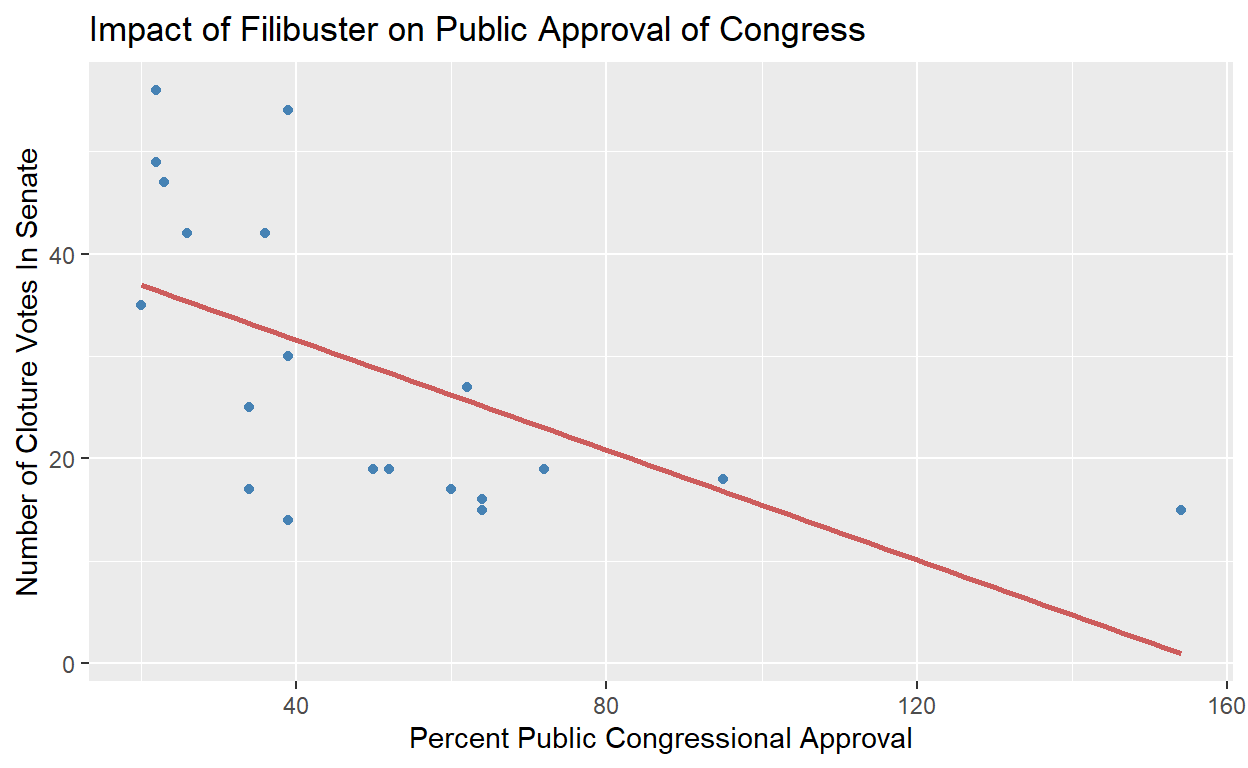
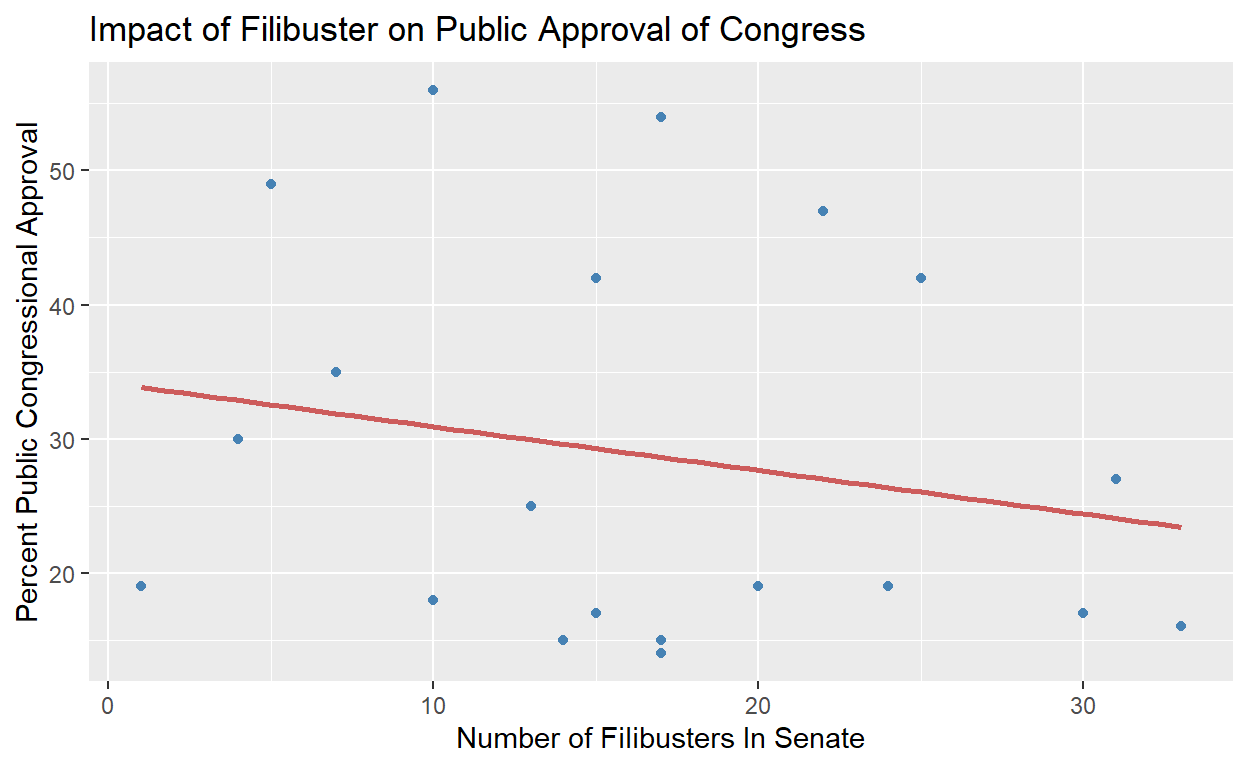
m4

diff --git a/index.html b/index.html
@@ -1577,19 +1577,56 @@ code span.wa { color: #5e5e5e; font-style: italic; } /* Warning */
 </div>
 <div class="layout-chunk" data-layout="l-body">
 <div class="sourceCode">
-<pre class="sourceCode r"><code class="sourceCode r"><span><span class='va'>correlation_plot</span> <span class='op'>&lt;-</span> <span class='fu'><a href='https://ggplot2.tidyverse.org/reference/ggplot.html'>ggplot</a></span><span class='op'>(</span><span class='va'>data</span>, <span class='fu'><a href='https://ggplot2.tidyverse.org/reference/aes.html'>aes</a></span><span class='op'>(</span>x <span class='op'>=</span> <span class='va'>Attempted</span>, y <span class='op'>=</span> <span class='va'>`Congress Approval`</span><span class='op'>)</span><span class='op'>)</span> <span class='op'>+</span></span>
+<pre class="sourceCode r"><code class="sourceCode r"><span><span class='va'>data</span> <span class='op'>&lt;-</span> <span class='va'>data</span> <span class='op'>|&gt;</span></span>
+<span>  <span class='fu'><a href='https://dplyr.tidyverse.org/reference/mutate.html'>mutate</a></span><span class='op'>(</span>Filibusters <span class='op'>=</span> <span class='va'>Attempted</span> <span class='op'>-</span> <span class='va'>Successful</span><span class='op'>)</span> <span class='co'># Creating filibuster variable</span></span></code></pre>
+</div>
+</div>
+<div class="layout-chunk" data-layout="l-body">
+<div class="sourceCode">
+<pre class="sourceCode r"><code class="sourceCode r"><span><span class='va'>correlation_plot</span> <span class='op'>&lt;-</span> <span class='fu'><a href='https://ggplot2.tidyverse.org/reference/ggplot.html'>ggplot</a></span><span class='op'>(</span><span class='va'>data</span>, <span class='fu'><a href='https://ggplot2.tidyverse.org/reference/aes.html'>aes</a></span><span class='op'>(</span>x <span class='op'>=</span> <span class='va'>Filibusters</span>, y <span class='op'>=</span> <span class='va'>`Congress Approval`</span><span class='op'>)</span><span class='op'>)</span> <span class='op'>+</span></span>
 <span>  <span class='fu'><a href='https://ggplot2.tidyverse.org/reference/geom_point.html'>geom_point</a></span><span class='op'>(</span>color <span class='op'>=</span> <span class='st'>"steelblue"</span><span class='op'>)</span> <span class='op'>+</span></span>
 <span>  <span class='fu'><a href='https://ggplot2.tidyverse.org/reference/geom_smooth.html'>geom_smooth</a></span><span class='op'>(</span>method <span class='op'>=</span> <span class='st'>"lm"</span>, se <span class='op'>=</span> <span class='cn'>FALSE</span>, color <span class='op'>=</span> <span class='st'>"indianred"</span><span class='op'>)</span> <span class='op'>+</span></span>
 <span>  <span class='fu'><a href='https://ggplot2.tidyverse.org/reference/labs.html'>labs</a></span><span class='op'>(</span></span>
 <span>    title <span class='op'>=</span> <span class='st'>"Impact of Filibuster on Public Approval of Congress"</span>,</span>
-<span>    x <span class='op'>=</span> <span class='st'>"Percent Public Congressional Approval"</span>,</span>
-<span>    y <span class='op'>=</span> <span class='st'>"Number of Cloture Votes In Senate"</span></span>
+<span>    x <span class='op'>=</span> <span class='st'>"Number of Filibusters In Senate"</span>,</span>
+<span>    y <span class='op'>=</span> <span class='st'>"Percent Public Congressional Approval"</span></span>
 <span>  <span class='op'>)</span></span>
 <span></span>
 <span><span class='va'>correlation_plot</span> <span class='co'># Plotting data</span></span></code></pre>
 </div>
 <p><img src="index_files/figure-html5/unnamed-chunk-1-1.png" width="624" /></p>
 </div>
+<h2 id="analysis">Analysis</h2>
+<div class="layout-chunk" data-layout="l-body">
+<div class="sourceCode">
+<pre class="sourceCode r"><code class="sourceCode r"><span><span class='va'>regression</span> <span class='op'>&lt;-</span> <span class='fu'><a href='https://rdrr.io/r/stats/lm.html'>lm</a></span><span class='op'>(</span><span class='va'>`Congress Approval`</span> <span class='op'>~</span> <span class='va'>Filibusters</span>, data <span class='op'>=</span> <span class='va'>data</span><span class='op'>)</span></span>
+<span><span class='kw'><a href='https://rdrr.io/r/base/library.html'>library</a></span><span class='op'>(</span><span class='va'><a href='https://broom.tidymodels.org/'>broom</a></span><span class='op'>)</span></span>
+<span></span>
+<span><span class='va'>regression</span> <span class='op'>|&gt;</span></span>
+<span>  <span class='fu'>broom</span><span class='fu'>::</span><span class='fu'><a href='https://generics.r-lib.org/reference/tidy.html'>tidy</a></span><span class='op'>(</span><span class='op'>)</span> <span class='op'>|&gt;</span></span>
+<span>  <span class='fu'><a href='https://dplyr.tidyverse.org/reference/select.html'>select</a></span><span class='op'>(</span><span class='va'>term</span>, <span class='va'>estimate</span><span class='op'>)</span> <span class='op'>|&gt;</span>  </span>
+<span>  <span class='fu'>knitr</span><span class='fu'>::</span><span class='fu'><a href='https://rdrr.io/pkg/knitr/man/kable.html'>kable</a></span><span class='op'>(</span>digits <span class='op'>=</span> <span class='fl'>2</span><span class='op'>)</span></span></code></pre>
+</div>
+<table>
+<thead>
+<tr class="header">
+<th style="text-align: left;">term</th>
+<th style="text-align: right;">estimate</th>
+</tr>
+</thead>
+<tbody>
+<tr class="odd">
+<td style="text-align: left;">(Intercept)</td>
+<td style="text-align: right;">34.17</td>
+</tr>
+<tr class="even">
+<td style="text-align: left;">Filibusters</td>
+<td style="text-align: right;">-0.33</td>
+</tr>
+</tbody>
+</table>
+</div>
+<p>In this analysis, I ran a regression of the relationship between the number of filibusters in the Senate (measured as the difference between cloture votes taken and successful cloture votes), and public approval of Congress. My findings are that the intercept is 34.17. This means that if there were zero filibusters in the Senate, the estimated public approval of the Senate would be 34.17%. The correlation value between filibusters and public approval is -0.33. This means that for each filibuster that occurs in the Senate, public approval of Congress decreases by .33 percentage points.</p>
 <div class="sourceCode" id="cb1"><pre class="sourceCode r distill-force-highlighting-css"><code class="sourceCode r"></code></pre></div>
 <!--radix_placeholder_article_footer-->
 <!--/radix_placeholder_article_footer-->
